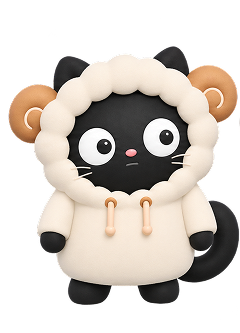
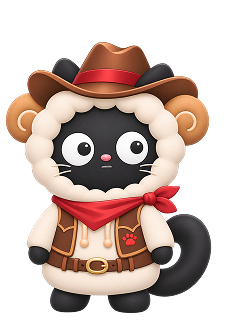
fix: 마이페이지와 오류 화면 캐릭터 교체

diff --git a/src/features/mypage/components/HistoryCard.tsx b/src/features/mypage/components/HistoryCard.tsx
@@ -12,13 +12,15 @@ export function HistoryCard({ label, href }: HistoryCardProps) {
       href={href}
       className="flex min-w-0 flex-col gap-3 rounded-lg bg-gray800 px-4 py-3 text-left focus-visible:outline-2 focus-visible:outline-offset-2 focus-visible:outline-primary"
     >
-      <Image
-        src="/button.webp"
-        alt=""
-        width={124}
-        height={69}
-        className="h-17.25 w-full max-w-31 self-end object-contain"
-      />
+      <div className="relative -mr-0.5 size-17.25 max-w-full self-end overflow-hidden">
+        <Image
+          src="/frowning.webp"
+          alt=""
+          width={228}
+          height={339}
+          className="absolute -top-3.75 left-3.75 w-17.25 max-w-none origin-top-left rotate-15"
+        />
+      </div>
       <span className="text-body-sb-16 wrap-anywhere break-keep text-gray50">{label}</span>
     </Link>
   );

diff --git a/src/app/error.tsx b/src/app/error.tsx
@@ -4,8 +4,6 @@ import Image from "next/image";
 
 import { Button } from "@/shared/ui/Button";
 
-const image = "/default.webp";
-
 interface PageProps {
   retry: () => void;
 }
@@ -13,7 +11,7 @@ interface PageProps {
 export default function Page({ retry }: PageProps) {
   return (
     <main className="mx-auto flex h-dvh flex-col items-center justify-center">
-      <Image src={image} alt="" width={80} height={111} loading="eager" />
+      <Image src="/default.webp" alt="" width={80} height={111} loading="eager" className="h-27.5 object-contain" />
       <div role="alert" className="mt-3 mb-12 text-center text-body-sb-16 text-white">
         <h1>서비스에 잠시 문제가 생겼어요.</h1>
         <p>잠시 후 다시 시도해 주세요.</p>

diff --git a/src/app/not-found.tsx b/src/app/not-found.tsx
@@ -2,12 +2,10 @@ import Image from "next/image";
 
 import { ButtonLink } from "@/shared/ui/ButtonLink";
 
-const image = "/frowning.webp";
-
 export default function Page() {
   return (
     <main className="mx-auto flex h-dvh flex-col items-center justify-center">
-      <Image src={image} alt="" width={75} height={111} loading="eager" />
+      <Image src="/frowning.webp" alt="" width={75} height={111} loading="eager" className="h-27.5 object-contain" />
       <div className="mt-3 mb-12 text-center text-body-sb-16 text-white">
         <h1>페이지를 찾을 수 없어요.</h1>
         <p>주소가 변경되었거나 없는 페이지예요.</p>
